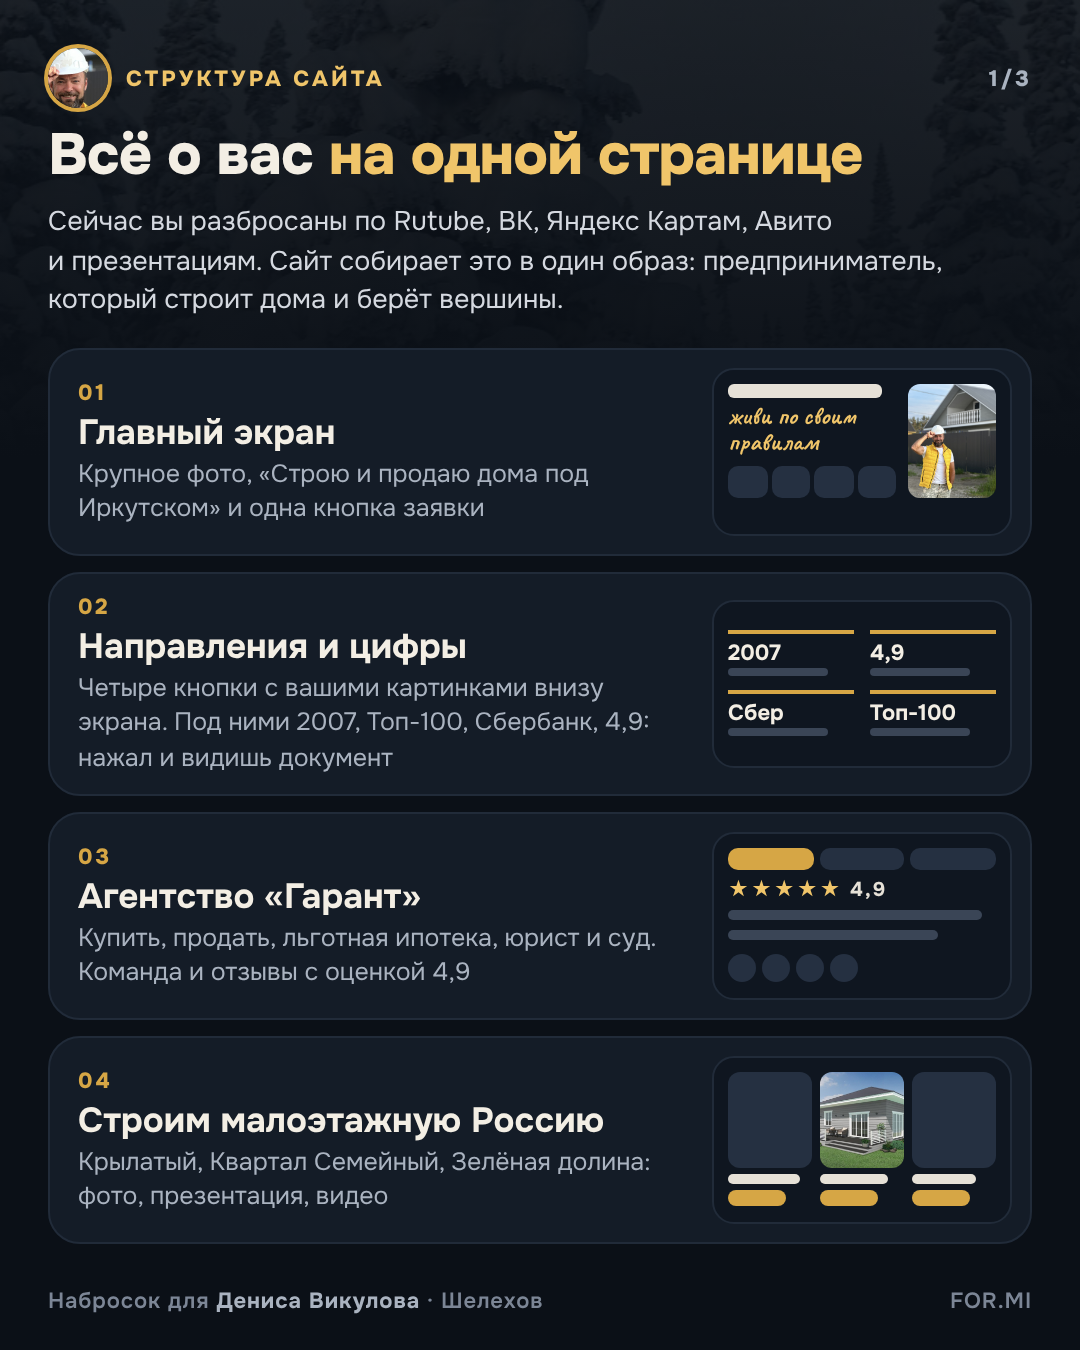
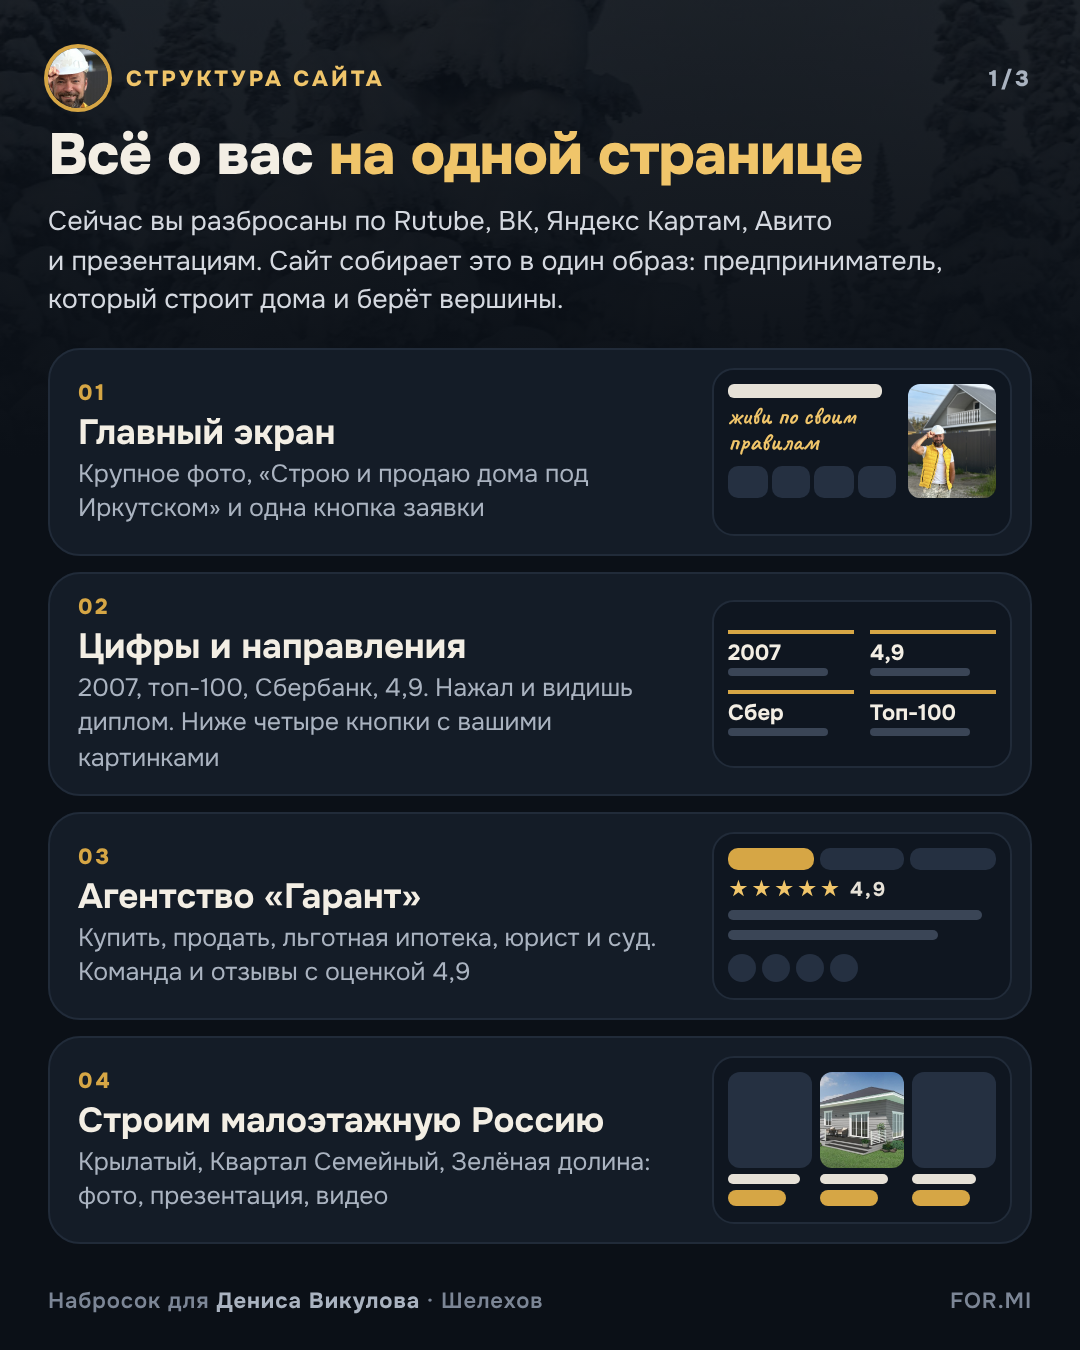
Денис Викулов: вернула прошлый главный экран (без плашки Сбербанка и кнопок внизу)
Claude-Session: https://claude.ai/code/session_01MqcZMF1QZGroxt2dRB4nWR

Changed region(s): [[0.0611, 0.4667, 0.6111, 0.5911]]

diff --git a/denis-vikulov/index.html b/denis-vikulov/index.html
@@ -66,7 +66,7 @@ nav a:hover{color:var(--gold-hi)}
 .bg-blur{inset:-40px;background:url(img/denis-kaska.jpg) 50% 30%/cover;filter:blur(34px) saturate(.9);opacity:.6}
 .bg-photo{z-index:-2;top:0;right:0;bottom:0;width:68%;background:url(img/denis-kaska.jpg) 22% 20%/cover;-webkit-mask-image:linear-gradient(90deg,transparent 0%,#000 26%);mask-image:linear-gradient(90deg,transparent 0%,#000 26%)}
 .stage::after{content:"";position:absolute;inset:0;z-index:-1;background:linear-gradient(90deg,var(--bg) 0%,rgb(11 16 23 / .92) 30%,rgb(11 16 23 / .4) 48%,transparent 64%),linear-gradient(180deg,rgb(11 16 23 / .55) 0%,transparent 16%,transparent 70%,var(--bg) 100%)}
-.hero{position:relative;display:grid;grid-template-columns:minmax(0,620px) minmax(0,1fr);min-height:clamp(540px,calc(100vh - 200px),760px);padding-block:40px 24px;align-items:center}
+.hero{position:relative;display:grid;grid-template-columns:minmax(0,620px) minmax(0,1fr);min-height:clamp(600px,calc(100vh - 72px),900px);padding-block:40px;align-items:center}
 .h-left{display:grid;gap:28px;align-content:center}
 .hero h1{font-family:var(--serif);font-weight:500;font-size:clamp(40px,4.1vw,60px);line-height:1.06;letter-spacing:-.01em;text-wrap:wrap}
 .hero h1 .scr{display:block;font-style:italic;color:var(--gold-hi)}
@@ -74,13 +74,11 @@ nav a:hover{color:var(--gold-hi)}
 .cta{display:grid;gap:10px;justify-items:start}
 .cta .btn{padding:18px 30px;font-size:16.5px}
 .cta small{font-size:13.5px;color:var(--muted)}
-.sber{position:absolute;top:28px;right:0;z-index:3;display:inline-flex;align-items:center;gap:8px;background:rgb(11 16 23 / .62);backdrop-filter:blur(8px);border:1px solid rgb(255 255 255 / .16);border-radius:999px;padding:9px 15px;font-size:13.5px;font-weight:700;white-space:nowrap}
-.sber::before{content:"";width:8px;height:8px;border-radius:50%;background:var(--gold-hi);box-shadow:0 0 10px 2px rgb(240 197 106 / .6)}
-.sign{position:absolute;right:0;bottom:24px;font-family:var(--script);font-size:46px;line-height:1;color:var(--ink);text-shadow:0 2px 14px rgb(0 0 0 / .7);transform:rotate(-4deg)}
+.sign{position:absolute;right:0;bottom:44px;font-family:var(--script);font-size:46px;line-height:1;color:var(--ink);text-shadow:0 2px 14px rgb(0 0 0 / .7);transform:rotate(-4deg)}
 
 /* сразу под первым экраном: цифры и четыре направления */
-.napr{padding-block:0 72px}
-.stats{display:grid;grid-template-columns:repeat(5,minmax(0,1fr));border-block:1px solid var(--line);margin-top:28px}
+.napr{padding-block:8px 72px}
+.stats{display:grid;grid-template-columns:repeat(5,minmax(0,1fr));border-block:1px solid var(--line);margin-bottom:28px}
 .stats a{padding:22px 20px;display:grid;gap:4px;align-content:start;text-decoration:none;transition:background .15s}
 .stats a:hover{background:var(--surface)}
 .stats i{font-style:normal;font-size:12.5px;font-weight:700;color:var(--gold);margin-top:4px}
@@ -103,7 +101,6 @@ nav a:hover{color:var(--gold-hi)}
   .stage{margin-top:-62px;padding-top:62px}
   .hero{grid-template-columns:1fr;min-height:0;padding-block:330px 36px}
   .bg-blur,.sign{display:none}
-  .sber{top:78px;right:16px;font-size:12px;padding:6px 11px}
   .bg-photo{left:0;width:auto;bottom:auto;height:470px;background-position:26% 16%;-webkit-mask-image:linear-gradient(180deg,#000 62%,transparent);mask-image:linear-gradient(180deg,#000 62%,transparent)}
   .stage::after{background:linear-gradient(180deg,rgb(11 16 23 / .35) 0,transparent 90px,transparent 220px,rgb(11 16 23 / .8) 360px,var(--bg) 460px)}
 }
@@ -226,25 +223,24 @@ dialog p{color:var(--muted);font-size:14.5px;margin-bottom:8px}
           <small>Три коротких вопроса, и&nbsp;заявка уходит Денису в&nbsp;мессенджер</small>
         </div>
       </div>
-      <span class="sber">Золотой партнёр Сбербанка</span>
       <span class="sign">Денис Викулов</span>
     </div>
   </div>
   </div>
 
   <div class="wrap napr" id="vhody">
-    <div class="dirs">
-      <a class="dir" href="#struktura"><span class="pic garant"></span><span class="txt"><b>Агентство «Гарант»</b><small>Купить, продать, ипотека, юрист</small><span class="ar">→</span></span></a>
-      <a class="dir" href="#struktura"><span class="pic" style="background-image:url(img/dom-noch.jpg)"></span><span class="txt"><b>Свои посёлки</b><small>Крылатый, Квартал Семейный, Зелёная долина</small><span class="ar">→</span></span></a>
-      <a class="dir" href="#struktura"><span class="pic" style="background-image:url(img/real-invest.jpg)"></span><span class="txt"><b>Инвестиции</b><small>Россия и&nbsp;зарубеж, сделки между городами</small><span class="ar">→</span></span></a>
-      <a class="dir" href="#struktura"><span class="pic" style="background-image:url(img/frirayd.jpg);background-position:45% 40%"></span><span class="txt"><b>Обо мне</b><small>Днём брус и&nbsp;бетон, утром сделка</small><span class="ar">→</span></span></a>
-    </div>
     <div class="stats">
       <a href="#struktura"><b>с 2007 года</b><span>в&nbsp;недвижимости</span><i>свидетельство</i></a>
       <a href="#struktura"><b>Топ-100</b><span>агентств России по&nbsp;версии Домклик</span><i>диплом</i></a>
       <a href="#struktura"><b>Сбербанк</b><span>золотой партнёр, аккредитованный застройщик</span><i>сертификат</i></a>
       <a href="#struktura"><b>4,9</b><span>на&nbsp;Яндексе, 27 оценок</span><i>отзывы</i></a>
       <a href="#struktura"><b>3 посёлка</b><span>строим сами</span><i>смотреть</i></a>
+    </div>
+    <div class="dirs">
+      <a class="dir" href="#struktura"><span class="pic garant"></span><span class="txt"><b>Агентство «Гарант»</b><small>Купить, продать, ипотека, юрист</small><span class="ar">→</span></span></a>
+      <a class="dir" href="#struktura"><span class="pic" style="background-image:url(img/dom-noch.jpg)"></span><span class="txt"><b>Свои посёлки</b><small>Крылатый, Квартал Семейный, Зелёная долина</small><span class="ar">→</span></span></a>
+      <a class="dir" href="#struktura"><span class="pic" style="background-image:url(img/real-invest.jpg)"></span><span class="txt"><b>Инвестиции</b><small>Россия и&nbsp;зарубеж, сделки между городами</small><span class="ar">→</span></span></a>
+      <a class="dir" href="#struktura"><span class="pic" style="background-image:url(img/frirayd.jpg);background-position:45% 40%"></span><span class="txt"><b>Обо мне</b><small>Днём брус и&nbsp;бетон, утром сделка</small><span class="ar">→</span></span></a>
     </div>
   </div>
 

diff --git a/denis-vikulov/struktura.html b/denis-vikulov/struktura.html
@@ -77,7 +77,7 @@ h1 em{font-style:normal;color:var(--gold-hi)}
         <div style="display:grid;gap:3px;align-content:start"><span class="ln w" style="width:92%;height:7px"></span><span class="scr" style="font-size:12.5px">живи по своим правилам</span><div style="display:grid;grid-template-columns:repeat(4,minmax(0,1fr));gap:2px;margin-top:3px"><span class="pl" style="height:16px"></span><span class="pl" style="height:16px"></span><span class="pl" style="height:16px"></span><span class="pl" style="height:16px"></span></div></div>
         <div class="ph" style="background-image:url(img/denis-kaska.jpg);background-position:30% 25%"></div>
       </div></div>
-    <div class="r"><div class="t"><span class="no">02</span><h3>Направления и&nbsp;цифры</h3><p>Четыре кнопки с&nbsp;вашими картинками внизу экрана. Под ними 2007, Топ-100, Сбербанк, 4,9: нажал и&nbsp;видишь документ</p></div>
+    <div class="r"><div class="t"><span class="no">02</span><h3>Цифры и&nbsp;направления</h3><p>2007, топ-100, Сбербанк, 4,9. Нажал и&nbsp;видишь диплом. Ниже четыре кнопки с&nbsp;вашими картинками</p></div>
       <div class="v" style="grid-template-columns:repeat(2,minmax(0,1fr));gap:7px 8px;align-content:center">
         <div class="st"><b>2007</b><i></i></div><div class="st"><b>4,9</b><i></i></div><div class="st"><b>Сбер</b><i></i></div><div class="st"><b>Топ-100</b><i></i></div>
       </div></div>
